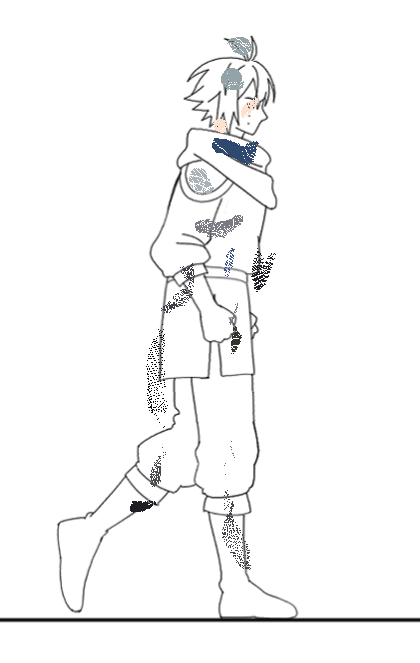
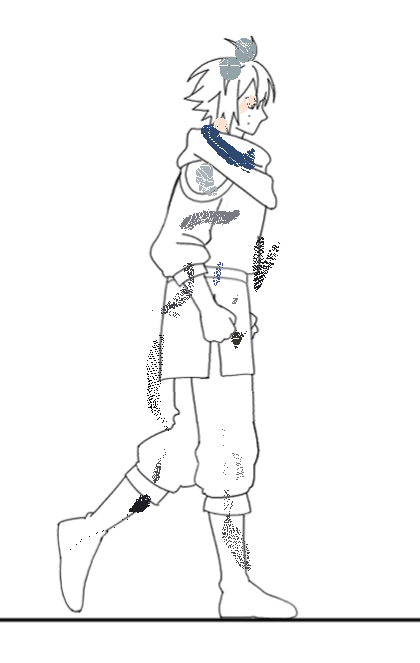
more sample points and bilinear splatting for transferUV

diff --git a/src/textoon.cpp b/src/textoon.cpp
@@ -570,46 +570,65 @@ Textoon::transferUV(
 {
     int h = prevUV.size();
     int w = prevUV[0].size();
-
     std::vector<std::vector<UV>> T2(h, std::vector<UV>(w, {0.f, 0.f}));
     std::vector<std::vector<bool>> assigned(h, std::vector<bool>(w, false));
 
     // ---------------------------------
-    // Step 1: Forward warp
+    // Forward warp with bilinear splatting
     // ---------------------------------
+    std::vector<std::vector<float>> accumU(h, std::vector<float>(w, 0.f));
+    std::vector<std::vector<float>> accumV(h, std::vector<float>(w, 0.f));
+    std::vector<std::vector<float>> accumW(h, std::vector<float>(w, 0.f));
+
     for (int y = 0; y < h; ++y)
     {
         for (int x = 0; x < w; ++x)
         {
             QPointF qf = W12[y][x];
+            int x0 = (int)std::floor(qf.x());
+            int y0 = (int)std::floor(qf.y());
+            float fx = qf.x() - x0;
+            float fy = qf.y() - y0;
 
-            int qx = std::round(qf.x());
-            int qy = std::round(qf.y());
+            float w00 = (1.f - fx) * (1.f - fy);
+            float w10 = fx           * (1.f - fy);
+            float w01 = (1.f - fx) * fy;
+            float w11 = fx           * fy;
 
-            if (qx < 0 || qx >= w || qy < 0 || qy >= h)
-                continue;
-
-            if (!assigned[qy][qx])
+            auto splat = [&](int nx, int ny, float wt)
             {
-                T2[qy][qx] = prevUV[y][x];
-                assigned[qy][qx] = true;
-            }
-            else
+                if (nx < 0 || nx >= w || ny < 0 || ny >= h) return;
+                accumU[ny][nx] += prevUV[y][x].u * wt;
+                accumV[ny][nx] += prevUV[y][x].v * wt;
+                accumW[ny][nx] += wt;
+            };
+            splat(x0,     y0,     w00);
+            splat(x0 + 1, y0,     w10);
+            splat(x0,     y0 + 1, w01);
+            splat(x0 + 1, y0 + 1, w11);
+        }
+    }
+
+    for (int y = 0; y < h; ++y)
+    {
+        for (int x = 0; x < w; ++x)
+        {
+            if (accumW[y][x] > 0.f)
             {
-                T2[qy][qx].u = 0.5f * (T2[qy][qx].u + prevUV[y][x].u);
-                T2[qy][qx].v = 0.5f * (T2[qy][qx].v + prevUV[y][x].v);
+                T2[y][x] = { accumU[y][x] / accumW[y][x],
+                            accumV[y][x] / accumW[y][x] };
+                assigned[y][x] = true;
             }
         }
     }
 
     // ---------------------------------
-    // Step 2: Process each region
+    // Process each region
     // ---------------------------------
     for (const auto& [color, pixels] : regions)
     {
         std::vector<QPoint> known;
         std::vector<QPoint> unknown;
-
         for (const QPoint& p : pixels)
         {
             if (assigned[p.y()][p.x()])
@@ -617,18 +636,15 @@ Textoon::transferUV(
             else
                 unknown.push_back(p);
         }
-
         if (known.size() < 5 || unknown.empty())
             continue;
 
         // ---------------------------------
         // Subsample control points
         // ---------------------------------
-        const int MAX_CTRL = 40;
+        const int MAX_CTRL = 80;
         std::vector<QPoint> sampled;
-
         int step = std::max(1, (int)known.size() / MAX_CTRL);
-
         for (int i = 0;
              i < (int)known.size() && (int)sampled.size() < MAX_CTRL;
              i += step)
@@ -640,7 +656,6 @@ Textoon::transferUV(
         // Build region mask
         // ---------------------------------
         std::vector<std::vector<bool>> mask(h, std::vector<bool>(w, false));
-
         for (const QPoint& p : pixels)
             mask[p.y()][p.x()] = true;
 
@@ -648,7 +663,6 @@ Textoon::transferUV(
         // Distance maps
         // ---------------------------------
         std::vector<std::vector<std::vector<float>>> allDist;
-
         for (const auto& p : sampled)
             allDist.push_back(computeDistanceMap(w, h, mask, p));
 
@@ -656,13 +670,11 @@ Textoon::transferUV(
         // TPS fit
         // ---------------------------------
         std::vector<double> values_u, values_v;
-
         for (const auto& p : sampled)
         {
             values_u.push_back(T2[p.y()][p.x()].u);
             values_v.push_back(T2[p.y()][p.x()].v);
         }
-
         TPS tps_u = fitTPS(sampled, values_u, allDist);
         TPS tps_v = fitTPS(sampled, values_v, allDist);
 
@@ -675,7 +687,6 @@ Textoon::transferUV(
             T2[p.y()][p.x()].v = evaluateTPS(tps_v, p, allDist);
         }
     }
-
     return T2;
 }
 
